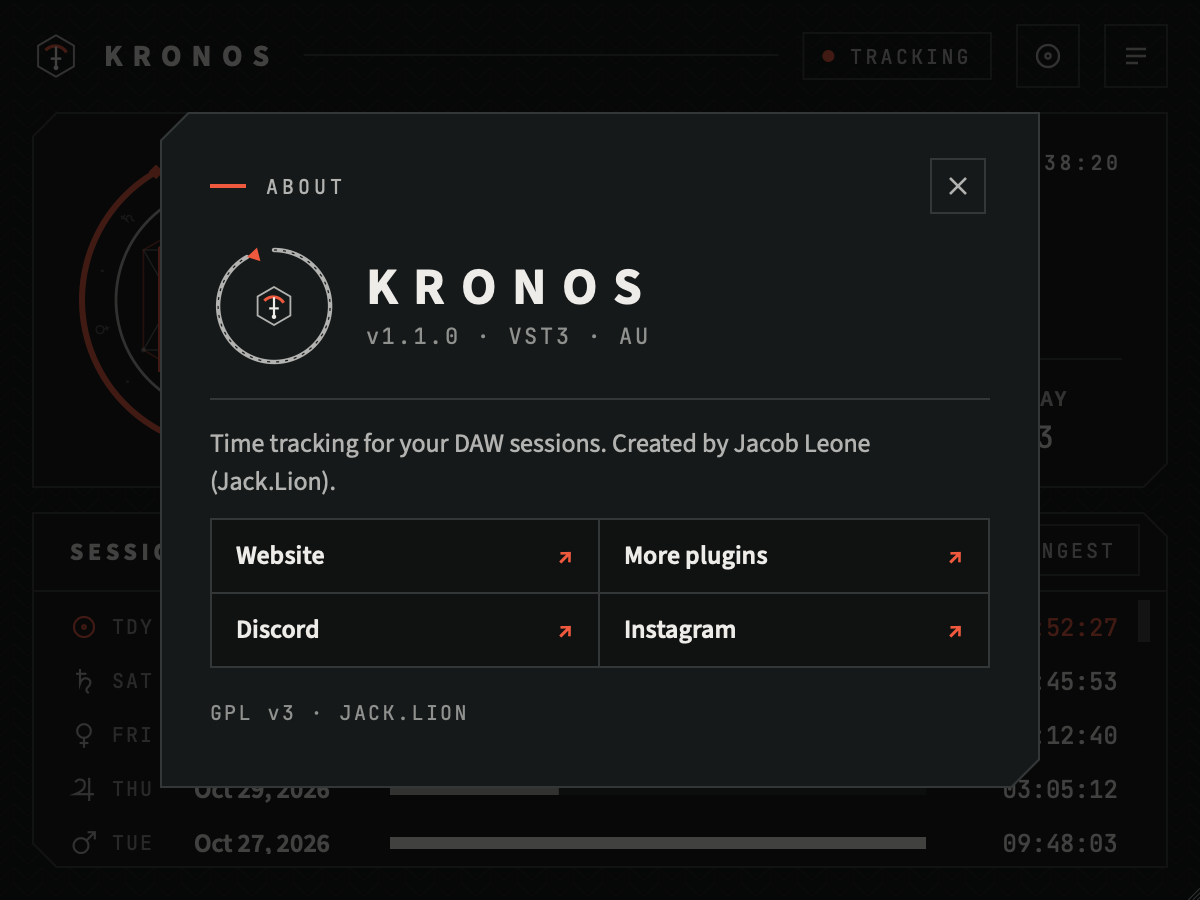
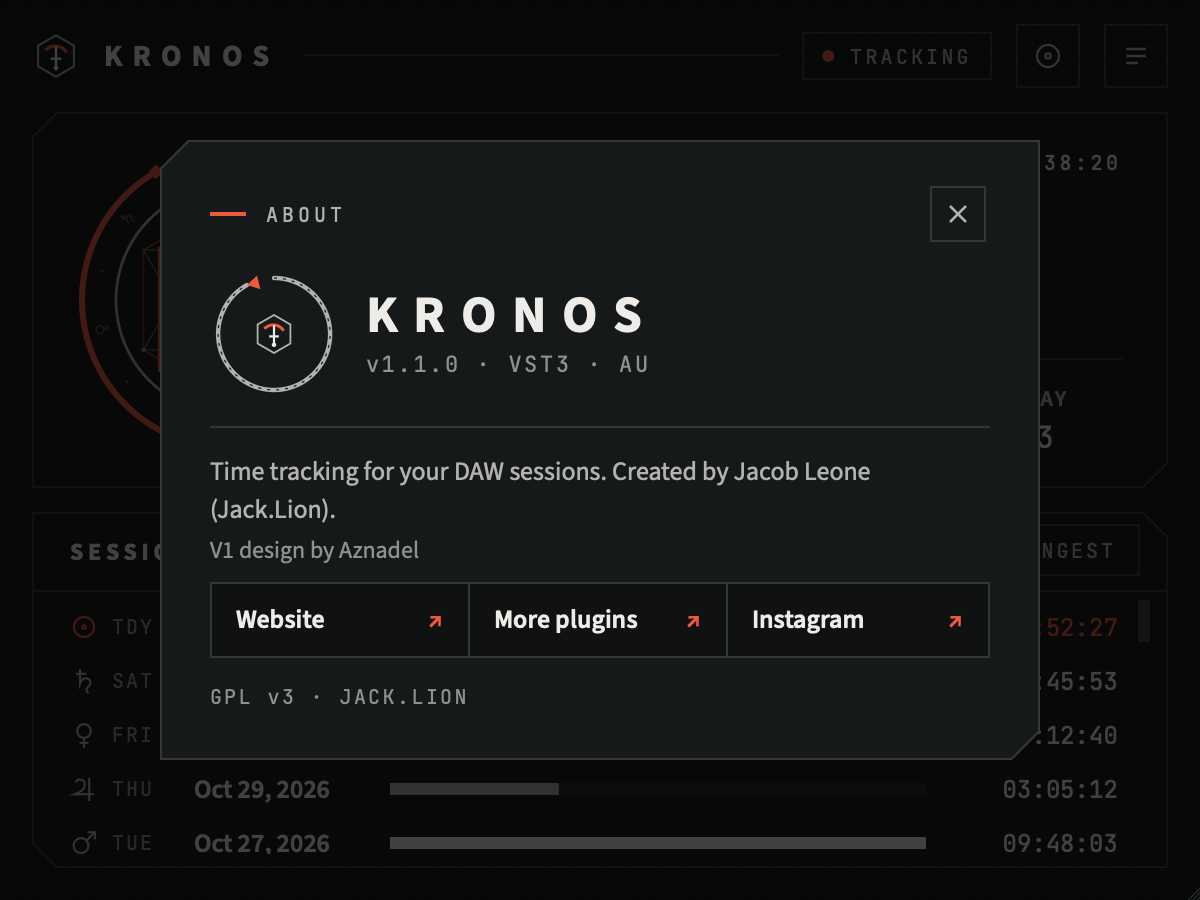
Update the About links and credits
Founder direction: Discord is removed everywhere it was listed, the website is now jacklionaudio.com, and Aznadel is credited for the V1 design. The remaining three links share one row in the About sheet.

diff --git a/Source/AboutComponent.cpp b/Source/AboutComponent.cpp
@@ -12,9 +12,8 @@ AboutComponent::AboutComponent()
         addAndMakeVisible(link);
     };
 
-    addLink(websiteLink, "https://jacklion.xyz");
+    addLink(websiteLink, "https://jacklionaudio.com");
     addLink(pluginsLink, "https://jacklion.gumroad.com");
-    addLink(discordLink, "https://discord.gg/EFQq7BX");
     addLink(instagramLink, "https://www.instagram.com/jack.lion");
 }
 
@@ -30,15 +29,13 @@ void AboutComponent::focusDefaultControl()
 
 void AboutComponent::resized()
 {
-    constexpr int linksTop = 138, rowHeight = 36;
-    const auto columnWidth = (getWidth() - 3) / 2;
-    const auto rightX = columnWidth + 2;
-    const auto rightWidth = getWidth() - 1 - rightX;
+    constexpr int linksTop = 156, rowHeight = 36;
+    const auto columnWidth = (getWidth() - 4) / 3;
+    const auto lastX = columnWidth * 2 + 3;
 
     websiteLink.setBounds(1, linksTop + 1, columnWidth, rowHeight);
-    pluginsLink.setBounds(rightX, linksTop + 1, rightWidth, rowHeight);
-    discordLink.setBounds(1, linksTop + rowHeight + 2, columnWidth, rowHeight);
-    instagramLink.setBounds(rightX, linksTop + rowHeight + 2, rightWidth, rowHeight);
+    pluginsLink.setBounds(columnWidth + 2, linksTop + 1, columnWidth, rowHeight);
+    instagramLink.setBounds(lastX, linksTop + 1, getWidth() - 1 - lastX, rowHeight);
 }
 
 void AboutComponent::paint(juce::Graphics& g)
@@ -68,12 +65,17 @@ void AboutComponent::paint(juce::Graphics& g)
     drawParagraph(g, "Time tracking for your DAW sessions. Created by Jacob Leone (Jack.Lion).",
                   KLF::font(KLF::Face::sansRegular, 13.0f), muted, { 0.0f, 92.0f, width, 40.0f });
 
+    g.setColour(faint);
+    g.setFont(KLF::font(KLF::Face::sansRegular, 12.0f));
+    g.drawText("V1 design by Aznadel", juce::Rectangle<float>(0.0f, 132.0f, width, 16.0f),
+               juce::Justification::centredLeft, false);
+
     // One pixel gaps between the link cells draw as a grid
     g.setColour(line);
-    g.fillRect(0.0f, 138.0f, width, 75.0f);
+    g.fillRect(0.0f, 156.0f, width, 38.0f);
 
     g.setColour(faint);
     g.setFont(KLF::font(KLF::Face::monoRegular, 10.0f, 0.12f));
     g.drawText(juce::String(juce::CharPointer_UTF8("GPL v3 \xc2\xb7 JACK.LION")),
-               juce::Rectangle<float>(0.0f, 228.0f, width, 14.0f), juce::Justification::centredLeft, false);
+               juce::Rectangle<float>(0.0f, 206.0f, width, 14.0f), juce::Justification::centredLeft, false);
 }

diff --git a/Source/AboutComponent.h b/Source/AboutComponent.h
@@ -10,7 +10,7 @@ public:
 
     juce::String getKicker() const override;
     juce::String getSheetTitle() const override { return "About Kronos"; }
-    int getPreferredHeight() const override { return 252; }
+    int getPreferredHeight() const override { return 224; }
     void focusDefaultControl() override;
 
     void paint(juce::Graphics&) override;
@@ -19,7 +19,6 @@ public:
 private:
     KronosButton websiteLink { "Website", KronosButton::Style::link };
     KronosButton pluginsLink { "More plugins", KronosButton::Style::link };
-    KronosButton discordLink { "Discord", KronosButton::Style::link };
     KronosButton instagramLink { "Instagram", KronosButton::Style::link };
 
     JUCE_DECLARE_NON_COPYABLE_WITH_LEAK_DETECTOR(AboutComponent)

diff --git a/docs/redesign/DEVIATIONS.md b/docs/redesign/DEVIATIONS.md
@@ -13,6 +13,10 @@ Jacob reviewed the build on 2026-11-01 and removed all Greek words, because no o
 - The sort label decode uses punctuation in place of Greek letters.
 - The sigil, ouroboros, hexagram and planetary day symbols stay because they are not words.
 
+## Founder change: About
+
+Jacob reviewed the About sheet on 2026-11-01. Discord is removed, Website points to jacklionaudio.com, and Aznadel is credited for the V1 design. The three remaining links share one row. SoundCloud stays removed, as in the prototype.
+
 ## Resolved conflicts in the design
 
 | Item | Design says | Built | Why |
@@ -42,7 +46,6 @@ Jacob reviewed the build on 2026-11-01 and removed all Greek words, because no o
 
 ## Needs a decision
 
-- **Credits:** the old About panel credited Aznadel for graphics and linked SoundCloud. The prototype drops both, so they are gone here. The README still has the credit.
 - **CPU at 30 Hz:** tracking with the window open costs about 10.8% of one core on this i9, mostly Core Animation. Paused costs about 1.2%, and a closed editor costs neither. `ambientFrameRate` in `PluginEditor.cpp` is the one line to change if 15 Hz looks smooth enough.
 
 ## Screenshots

diff --git a/README.md b/README.md
@@ -157,13 +157,12 @@ powershell -NoProfile -ExecutionPolicy Bypass -File scripts/release/windows-cut-
 ## Credits
 
 Created by Jacob Leone (Jack.Lion)
-Graphics by Aznadel
+V1 design by Aznadel
 
 ## Links
 
-- Website: [\[Jack.Lion Official Website\]](https://jacklion.xyz)
+- Website: [\[Jack.Lion Official Website\]](https://jacklionaudio.com)
 - Instagram: [\[@jack.lion\]](https://www.instagram.com/jack.lion)
-- Discord: [\[Join my community\]](https://discord.gg/EFQq7BX)
 - Gumroad: [\[More plugins\]](https://jacklion.gumroad.com)
 - Tech Portfolio: [\[Jacob Leones Tech Portfolio\]](https://jacobleone.tech)
 
@@ -190,7 +189,6 @@ Graphics by Aznadel
 #### Getting Help
 
 - Check existing Issues and Pull Requests before creating new ones
-- Join my Discord community for deeper discussions and questions
 - Review the documentation in the Kronos Manual
 
 I appreciate all contributions that help make Kronos better!

diff --git a/Kronos_Manual/Kronos Manual/Kronos Manual.md b/Kronos_Manual/Kronos Manual/Kronos Manual.md
@@ -141,16 +141,15 @@ Open the menu and choose `About Kronos` for the version, credits and links.
 
 ## Support
 
-- Website: https://jacklion.xyz
+- Website: https://jacklionaudio.com
 - Email: jack.lion710@gmail.com
 - Instagram: [@jack.lion](https://www.instagram.com/jack.lion)
-- Discord: [Join my community](https://discord.gg/EFQq7BX)
 - Gumroad: [More plugins](https://jacklion.gumroad.com)
 
 ## Credits
 
 - Created by Jacob Leone (Jack.Lion)
-- Graphics by [Aznadel](https://linktr.ee/aznadel)
+- V1 design by [Aznadel](https://linktr.ee/aznadel)
 
 ---
 
